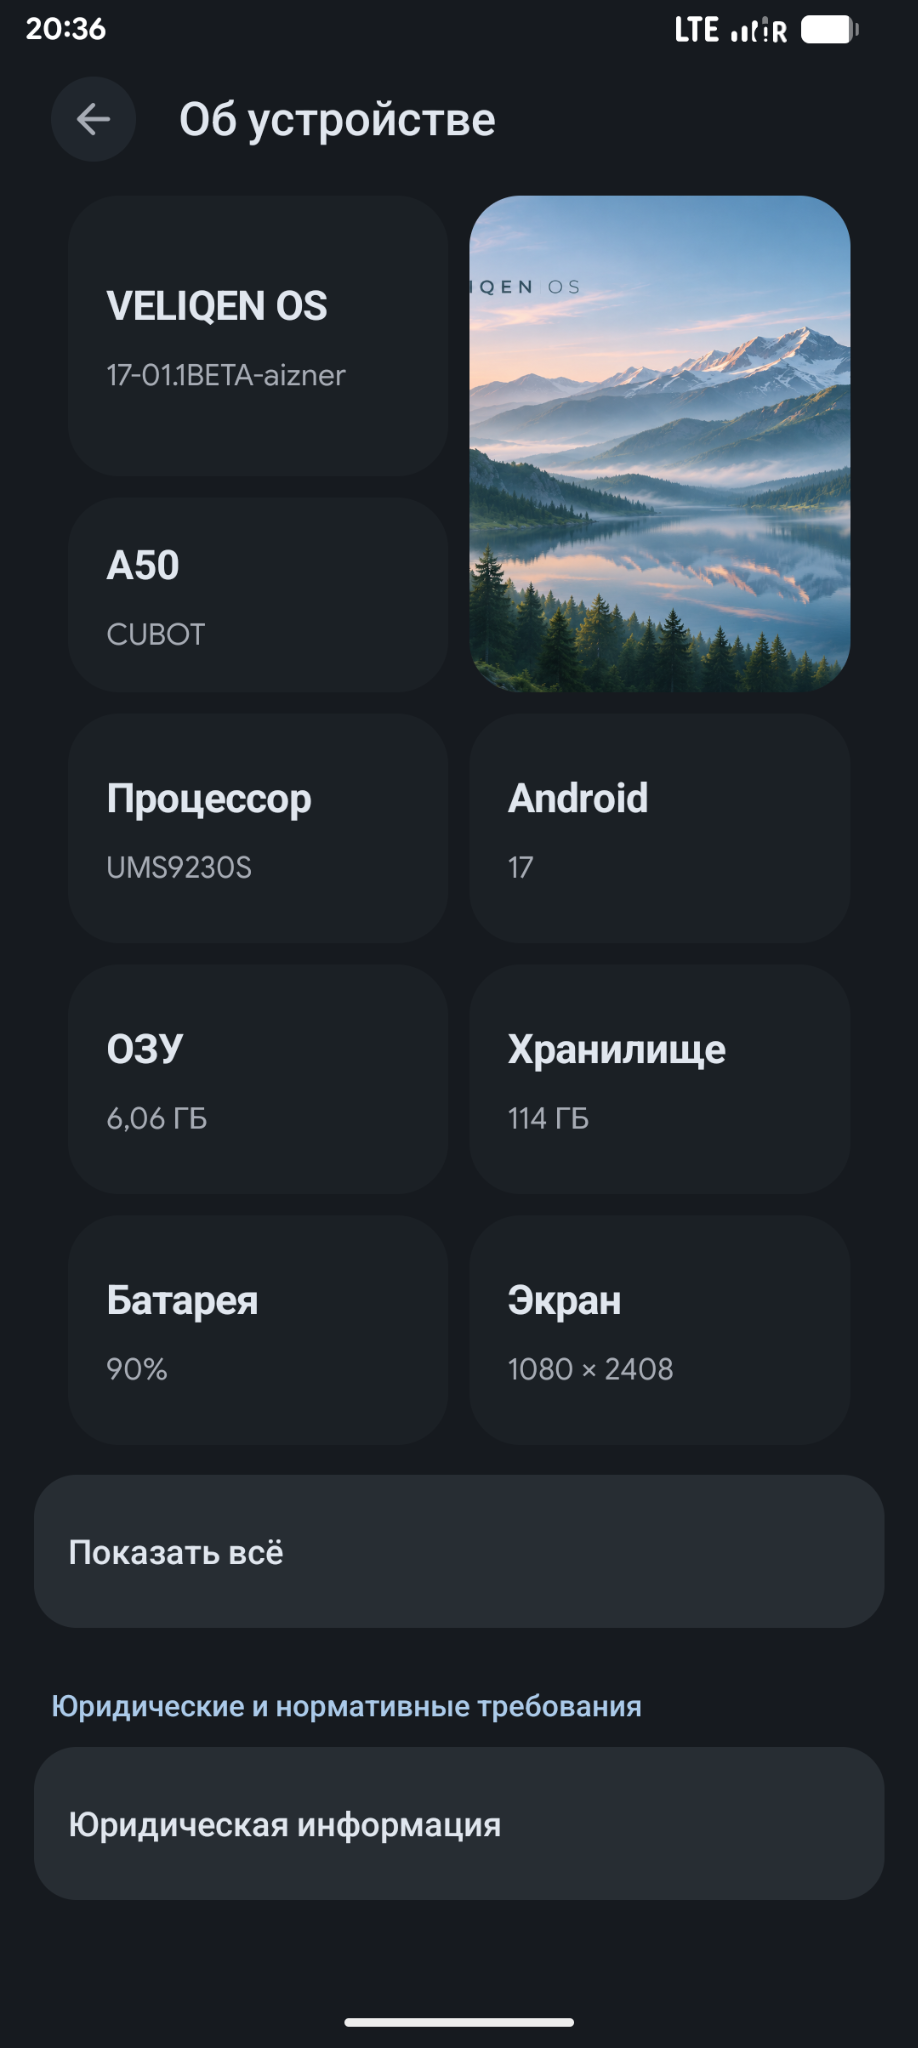
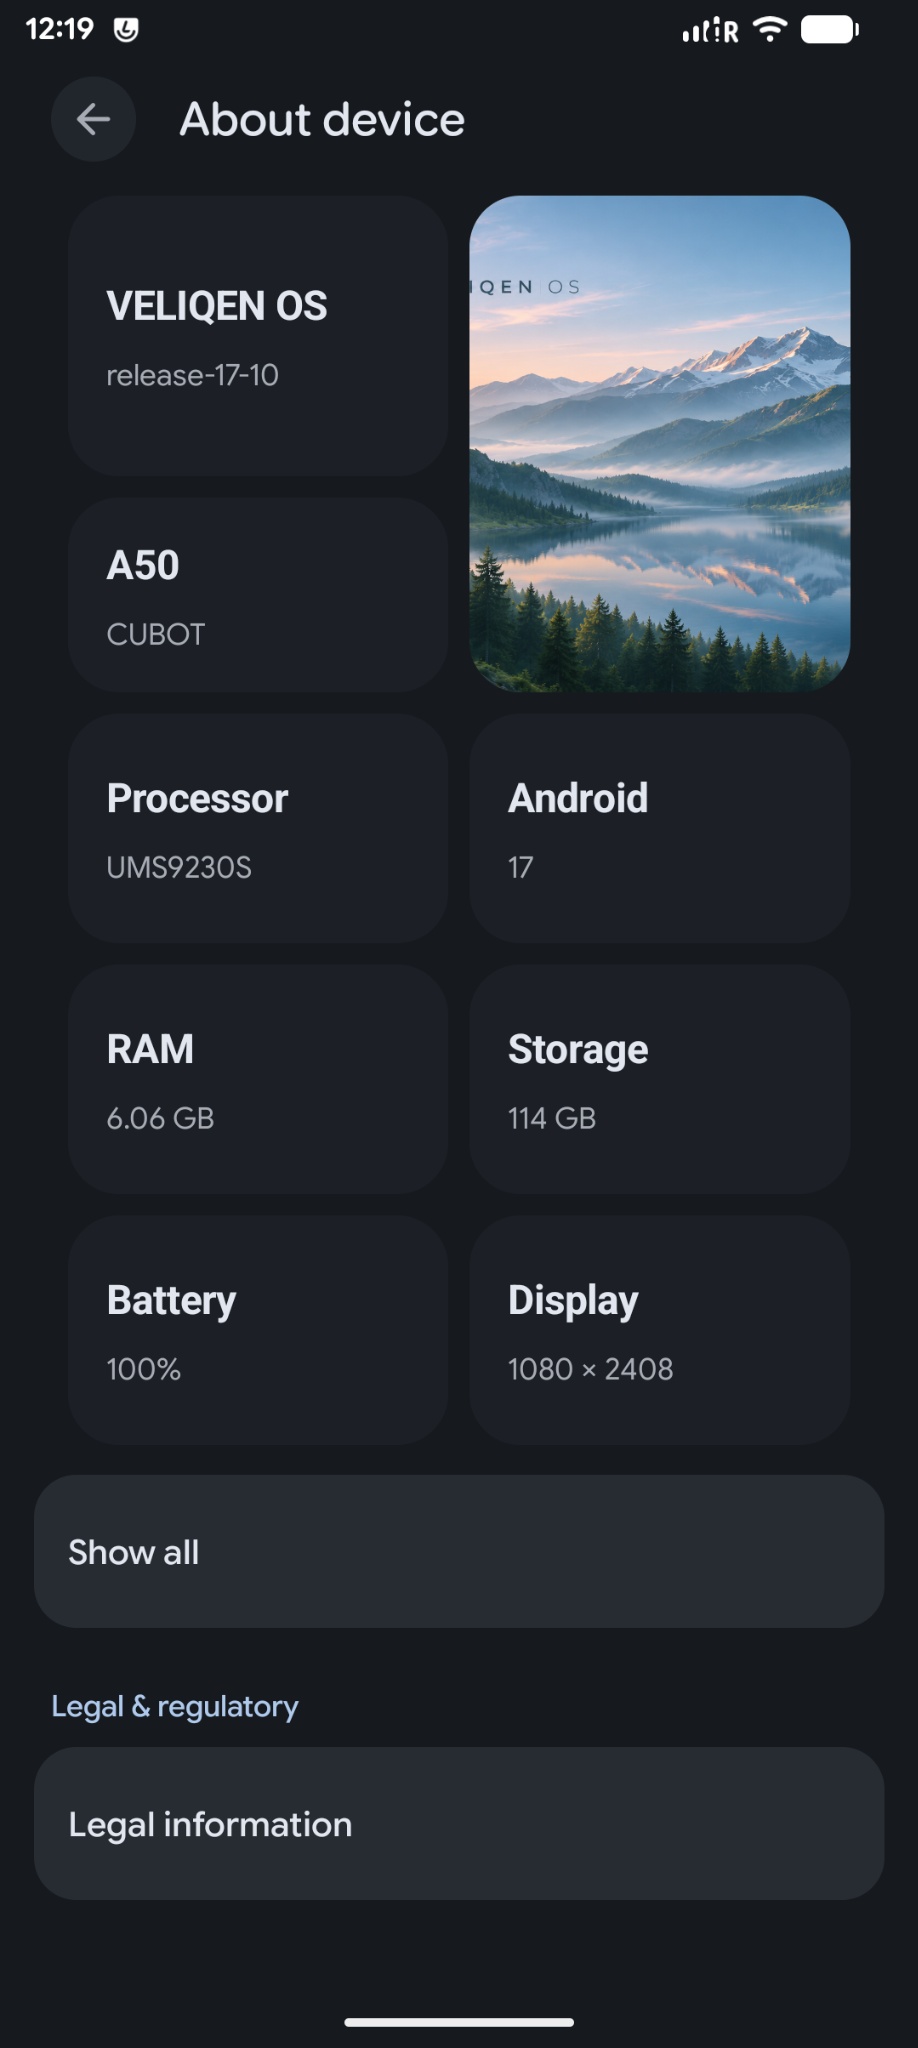
Refresh VELIQEN OS repository presentation

diff --git a/README.md b/README.md
@@ -1,43 +1,108 @@
+<div align="center">
+
 # VELIQEN OS
+### Android 17 · release-17-10 · by Aizner
 
-A new Android operating system experience.
+**A distinctive Android experience, shaped around a calmer home screen and a coherent visual style.**
 
-### Official website
-https://veliqen.tech
+[Download latest release](https://github.com/eyzner/VELIQEN-OS/releases/latest) · [Screenshots](#screenshots) · [Русский](#русский)
 
-### Video presentation
-[Watch VELIQEN OS presentation](demo.mp4)
+</div>
 
-© VELIQEN OS
+---
 
-<!-- VELIQEN_RELEASE_BEGIN -->
+## English
 
-## VELIQEN OS 17 — microG Edition
+VELIQEN OS is a custom Android 17 system with a redesigned launcher, system settings, quick controls and a collection of apps styled to work together.
 
-**Android 17 · LineageOS-based GSI · ARM64 · ext4 · Beta**
+### What’s inside
 
-VELIQEN OS is a custom Android GSI focused on a minimal interface, mountain-inspired visuals and redesigned system experiences. This build is the **microG edition** (not a Google Play / certified GApps build).
+| Home and personalization | System tools | Everyday apps |
+|:--|:--|:--|
+| Home pages with app icons, folders and widgets | Redesigned Settings and About device | Weather with hourly and 7-day forecasts |
+| Translucent dock and circular icon style | Quick Settings with large connectivity controls | Calendar, Notes and Calculator |
+| Pink Dream, VELIQEN Blue GT, Violet Aurora and Emerald Lake themes | Private space and Kids mode entries | Refreshed Messaging appearance |
+| Calendar and productivity widgets | Optional AizSecret reset controls | RAM expansion through configurable zRAM |
 
-### Preview
+RAM expansion offers additional compressed-memory capacity; it does not add physical RAM. AizSecret can erase local user data when its explicitly enabled reset conditions are met. Read each setting carefully before enabling it.
 
-<p align="center">
-  <img src="screenshots/launcher.png" alt="VELIQEN OS home screen" width="190" />
-  <img src="screenshots/settings.png" alt="VELIQEN OS settings" width="190" />
-  <img src="screenshots/about-device.png" alt="VELIQEN OS device information" width="190" />
-  <img src="screenshots/security.png" alt="VELIQEN OS privacy and security settings" width="190" />
-</p>
+### Screenshots
 
-### Release
+| Home screen | Themes |
+|:--:|:--:|
+| <img src="screenshots/home-screen.png" width="250" alt="VELIQEN OS home screen"> | <img src="screenshots/themes.png" width="250" alt="VELIQEN OS themes"> |
 
-- **Version:** `17-01.1BETA-aizner`
-- **Download:** [VELIQEN OS 17 microG Beta](https://github.com/eyzner/VELIQEN-OS/releases/tag/v17-01.1BETA-aizner)
-- **Format:** `system.img` (ARM64 GSI, ext4), distributed as compressed multipart archives
-- **Screenshots:** captured on Cubot A50
+| Quick Settings | Settings |
+|:--:|:--:|
+| <img src="screenshots/quick-settings.png" width="250" alt="Quick Settings"> | <img src="screenshots/settings.png" width="250" alt="Settings and privacy controls"> |
 
-> **Beta software.** This is a system image, not a complete device firmware package. Flashing requires a compatible Treble device and an unlocked bootloader. Back up personal data and original partitions first. Compatibility, calling, camera, encryption and other hardware features may vary by device. No Google Play certification is claimed.
+| Weather | Calendar |
+|:--:|:--:|
+| <img src="screenshots/weather.png" width="250" alt="Weather app"> | <img src="screenshots/calendar.png" width="250" alt="Calendar app"> |
 
-### Важно
+| Calculator | Notes |
+|:--:|:--:|
+| <img src="screenshots/calculator.png" width="250" alt="Calculator app"> | <img src="screenshots/notes.png" width="250" alt="Notes app"> |
 
-Это тестовая ARM64 GSI-прошивка на Android 17 с microG. Перед установкой сохраните резервные копии и убедитесь, что устройство совместимо с данным типом GSI. Скриншоты сделаны на Cubot A50.
+| About device | RAM expansion |
+|:--:|:--:|
+| <img src="screenshots/about-device.png" width="250" alt="About device"> | <img src="screenshots/ram-expansion.png" width="250" alt="RAM expansion settings"> |
 
-<!-- VELIQEN_RELEASE_END -->
+| AizSecret |
+|:--:|
+| <img src="screenshots/aizsecret.png" width="250" alt="AizSecret settings"> |
+
+### Download
+
+Open [Releases](https://github.com/eyzner/VELIQEN-OS/releases) and download the latest system image and its `SHA256SUMS` file. Verify the download before use:
+
+```bash
+sha256sum -c SHA256SUMS
+```
+
+The release image is compressed as `.img.xz`. Extract it with:
+
+```bash
+unxz -k VELIQEN-OS-release-17-10-arm64-system.img.xz
+```
+
+Screenshots show VELIQEN OS release-17-10 running on a Cubot A50.
+
+## Русский
+
+VELIQEN OS — кастомная система на базе Android 17 с переработанным рабочим столом, настройками, шторкой быстрых действий и приложениями в едином стиле.
+
+### Что входит
+
+| Рабочий стол и оформление | Системные функции | Приложения |
+|:--|:--|:--|
+| Страницы рабочего стола со значками, папками и виджетами | Переработанные настройки и экран «Об устройстве» | Погода с почасовым и семидневным прогнозом |
+| Полупрозрачная нижняя панель и круглые значки | Новая раскладка быстрых переключателей | Календарь, заметки и калькулятор |
+| Темы Pink Dream, VELIQEN Blue GT, Violet Aurora и Emerald Lake | Разделы приватного пространства и детского режима | Обновлённое оформление сообщений |
+| Виджеты календаря и продуктивности | Настраиваемое стирание данных через AizSecret | Расширение ОЗУ с помощью zRAM |
+
+Расширение ОЗУ использует сжатую память и не добавляет физическую ОЗУ. При включении AizSecret заданные условия сброса приводят к удалению локальных пользовательских данных. Внимательно прочитай описание перед включением.
+
+### Скриншоты
+
+Скриншоты выше показывают рабочий стол, темы, шторку, настройки, погоду, календарь, калькулятор, заметки, сведения об устройстве, расширение ОЗУ и AizSecret.
+
+### Загрузка
+
+Открой раздел [Releases](https://github.com/eyzner/VELIQEN-OS/releases) и скачай свежий образ системы и файл `SHA256SUMS`. Проверь файл после загрузки:
+
+```bash
+sha256sum -c SHA256SUMS
+```
+
+Образ опубликован в формате `.img.xz`. Распаковать его можно командой:
+
+```bash
+unxz -k VELIQEN-OS-release-17-10-arm64-system.img.xz
+```
+
+Скриншоты сделаны на Cubot A50 с VELIQEN OS release-17-10.
+
+---
+
+<div align="center">VELIQEN OS · Aizner</div>
